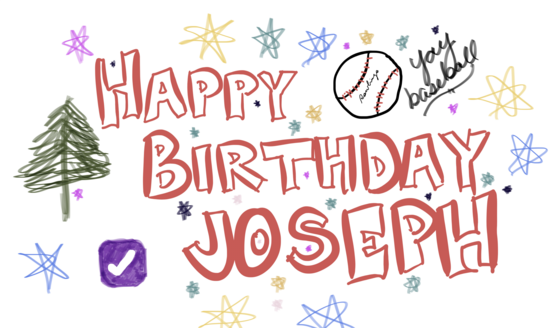
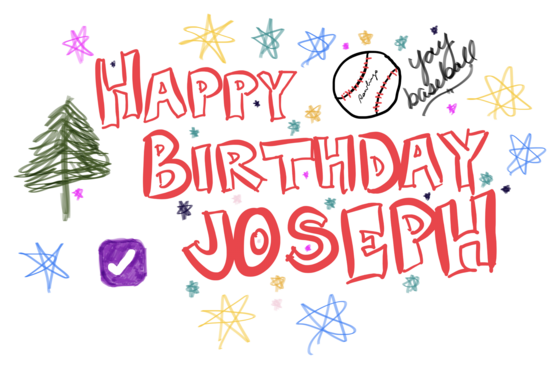
Add Noah and Sumi; upgrade Beth's card to the PDF original

diff --git a/guestbook.js b/guestbook.js
@@ -111,4 +111,22 @@ window.GUESTBOOK_ENTRIES = [
     alt: 'second card from tim',
     w: 280,
   },
+  {
+    // Noah — full-stack on Groups. Copy is a first draft; cut it like Tim's if you'd rather.
+    name: 'noah (groups)',
+    time: '10:11 AM',
+    msg: 'a real card. real paper. real pen. show-off.',
+    img: 'assets/cards/noah.png',
+    alt: 'card from noah',
+    w: 280,
+  },
+  {
+    // Sumi — services team, was on Check-Ins until recently.
+    name: 'sumi (services)',
+    time: '10:19 AM',
+    msg: 'live long and prosper... eat cake',
+    img: 'assets/cards/sumi.png',
+    alt: 'card from sumi',
+    w: 240,
+  },
 ];

diff --git a/index.html b/index.html
@@ -200,7 +200,7 @@ CONNECT 1200
 |  [W] WATERCOLOR GALLERY ... 12 IMAGES (EGA, ALL 16 COLORS)   |
 |  [P] PHOTO DARKROOM ....... KODACHROME SCANS (EST. WAIT 2HR) |
 |  [H] HOMESTEAD LOG ........ DAY 214: THE CHICKENS KNOW       |
-|  [G] GUESTBOOK ............ 11 NEW MESSAGES FOR THE SYSOP    |
+|  [G] GUESTBOOK ............ 13 NEW MESSAGES FOR THE SYSOP    |
 |  [X] LOGOFF ............... (WHY WOULD YOU)                  |
 |                                                              |
 +--------------------------------------------------------------+</pre>
